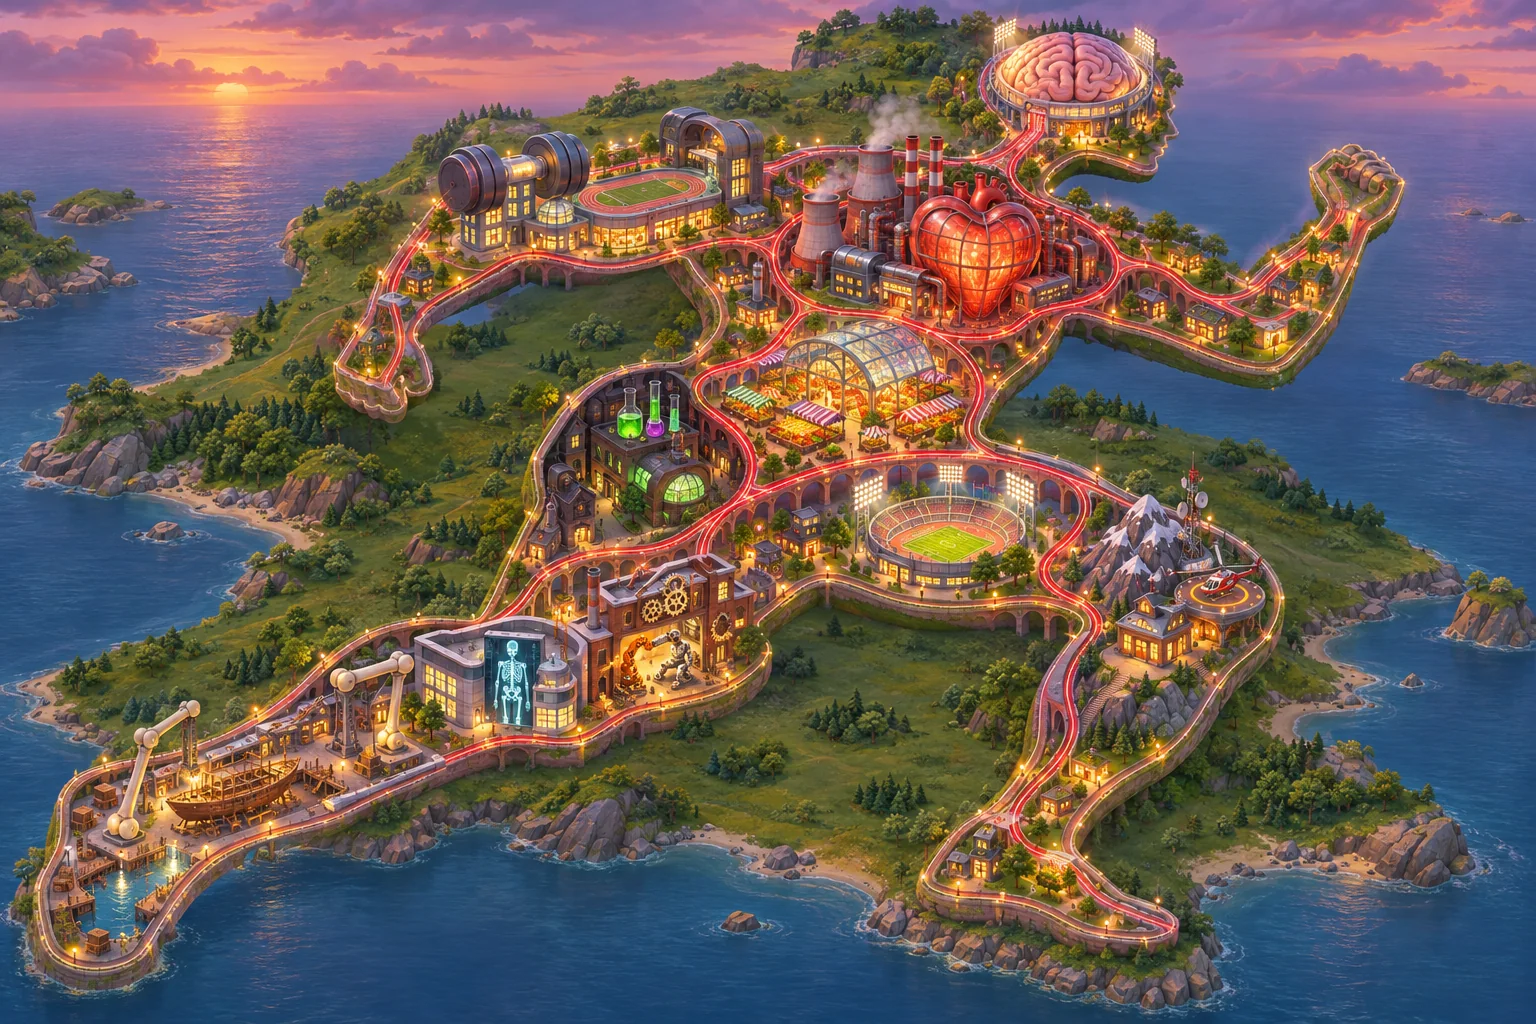
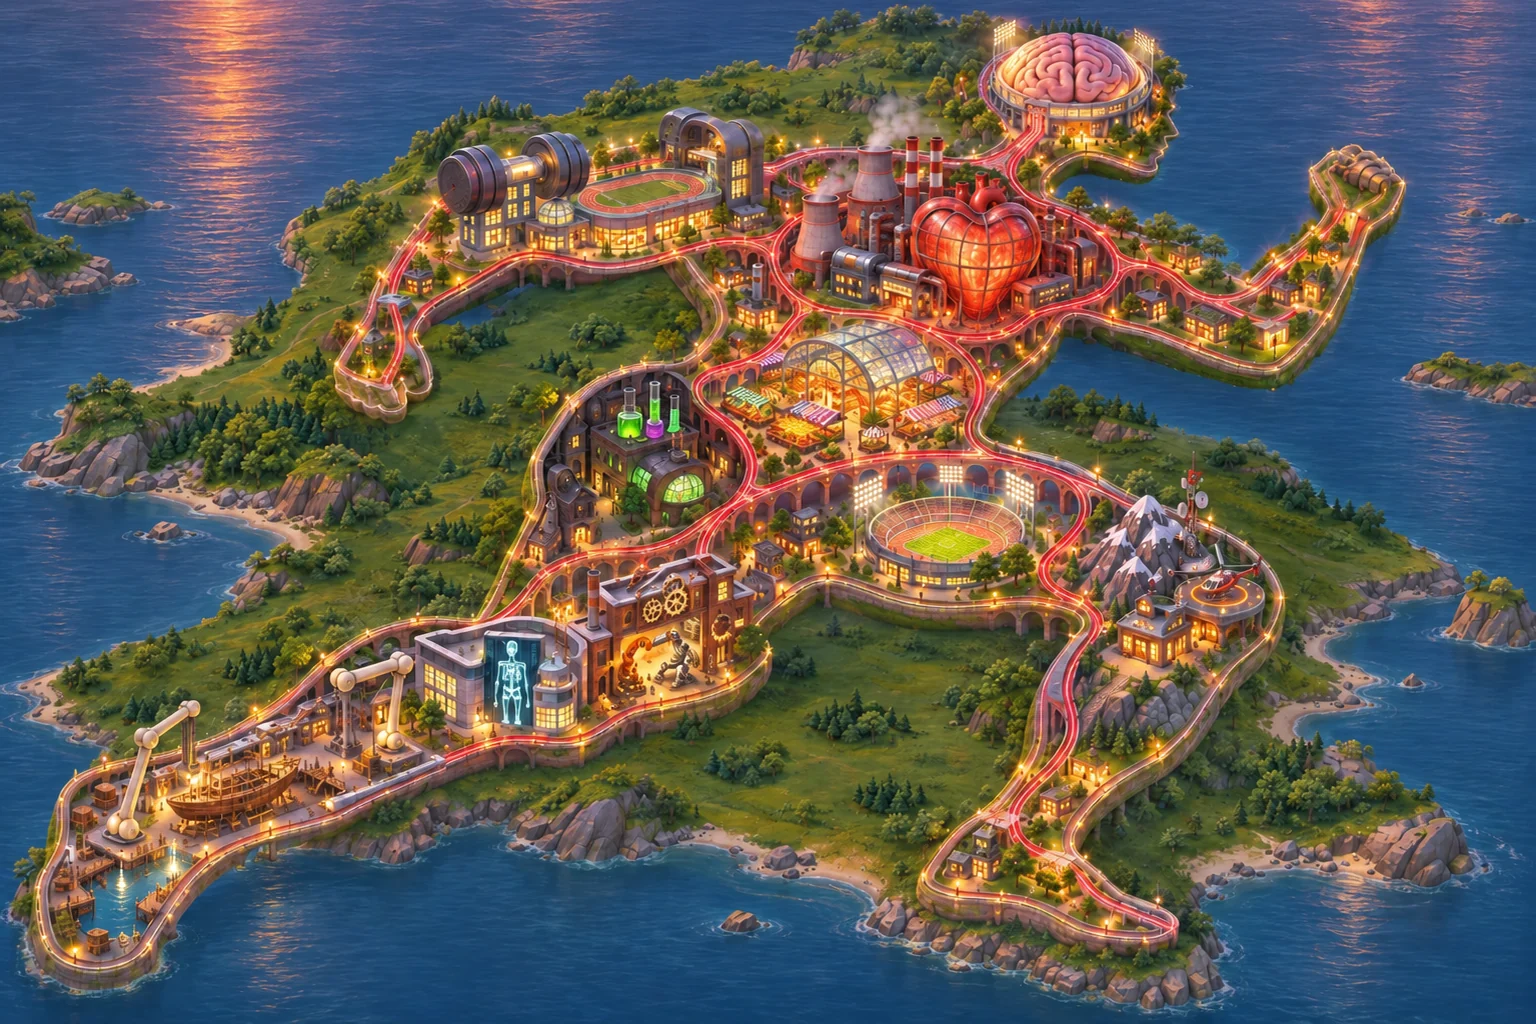
Athletopolis: Übersicht ohne Himmel (Insel im offenen Meer), Effekte angepasst
Claude-Session: https://claude.ai/code/session_01W7Q6Rn4idXUk77v555PfgU

diff --git a/sport/klasse9.html b/sport/klasse9.html
@@ -60,9 +60,10 @@ const ORTE = [
     fx:[["glow",740,360,320,"#FF9EC4","pulse"],["glow",380,140,110,"#FFF3C4","flick"],["glow",1090,160,110,"#FFF3C4","flick"],["clouds",80],
         ["water",[1200,120,1530,1000],22],["water",[640,850,1100,1000],8],["flies",[60,300,700,1000],10]] }
 ];
-const STADT_FX = [["sun",228,88],["clouds",45],["water",[40,120,420,280],10],["water",[900,880,1500,1010],8],["water",[1250,480,1520,700],8],["glow",955,255,95,"#FF5A3C","beat"],["glow",1075,80,85,"#FF9EC4","pulse"],["glow",655,400,55,"#8CFF4A","pulse"],["glow",520,665,42,"#5FE9FF","flick"],
+const STADT_FX = [["glow",955,255,95,"#FF5A3C","beat"],["glow",1075,80,85,"#FF9EC4","pulse"],["glow",655,400,55,"#8CFF4A","pulse"],["glow",520,665,42,"#5FE9FF","flick"],
   ["glow",650,650,60,"#FFA53C","pulse"],["smoke",868,148],["smoke",905,190],["blink",1196,468],["glow",930,540,80,"#FFF3C4","flick"],
-  ["water",[20,300,330,560],8],["water",[1180,180,1520,420],8],["water",[330,930,900,1010],6],["flies",[420,150,1300,900],12]];
+  ["water",[160,0,360,180],14],["water",[0,0,700,120],10],["water",[1100,0,1536,160],12],["water",[0,330,120,620],6],["water",[1300,420,1536,560],8],
+  ["water",[1350,640,1536,900],8],["water",[200,880,900,1024],12],["water",[1100,950,1536,1024],6],["flies",[420,150,1300,900],12]];
 
 SPORTWELT.start({ k:9, name:"Athletopolis", untertitel:"Profil Sport · Klasse 9", dir:"welt9", uebersicht:"stadt", zurueck:"Stadt",
   startBlick:{x:768, y:560}, fx:STADT_FX, orte:ORTE });
